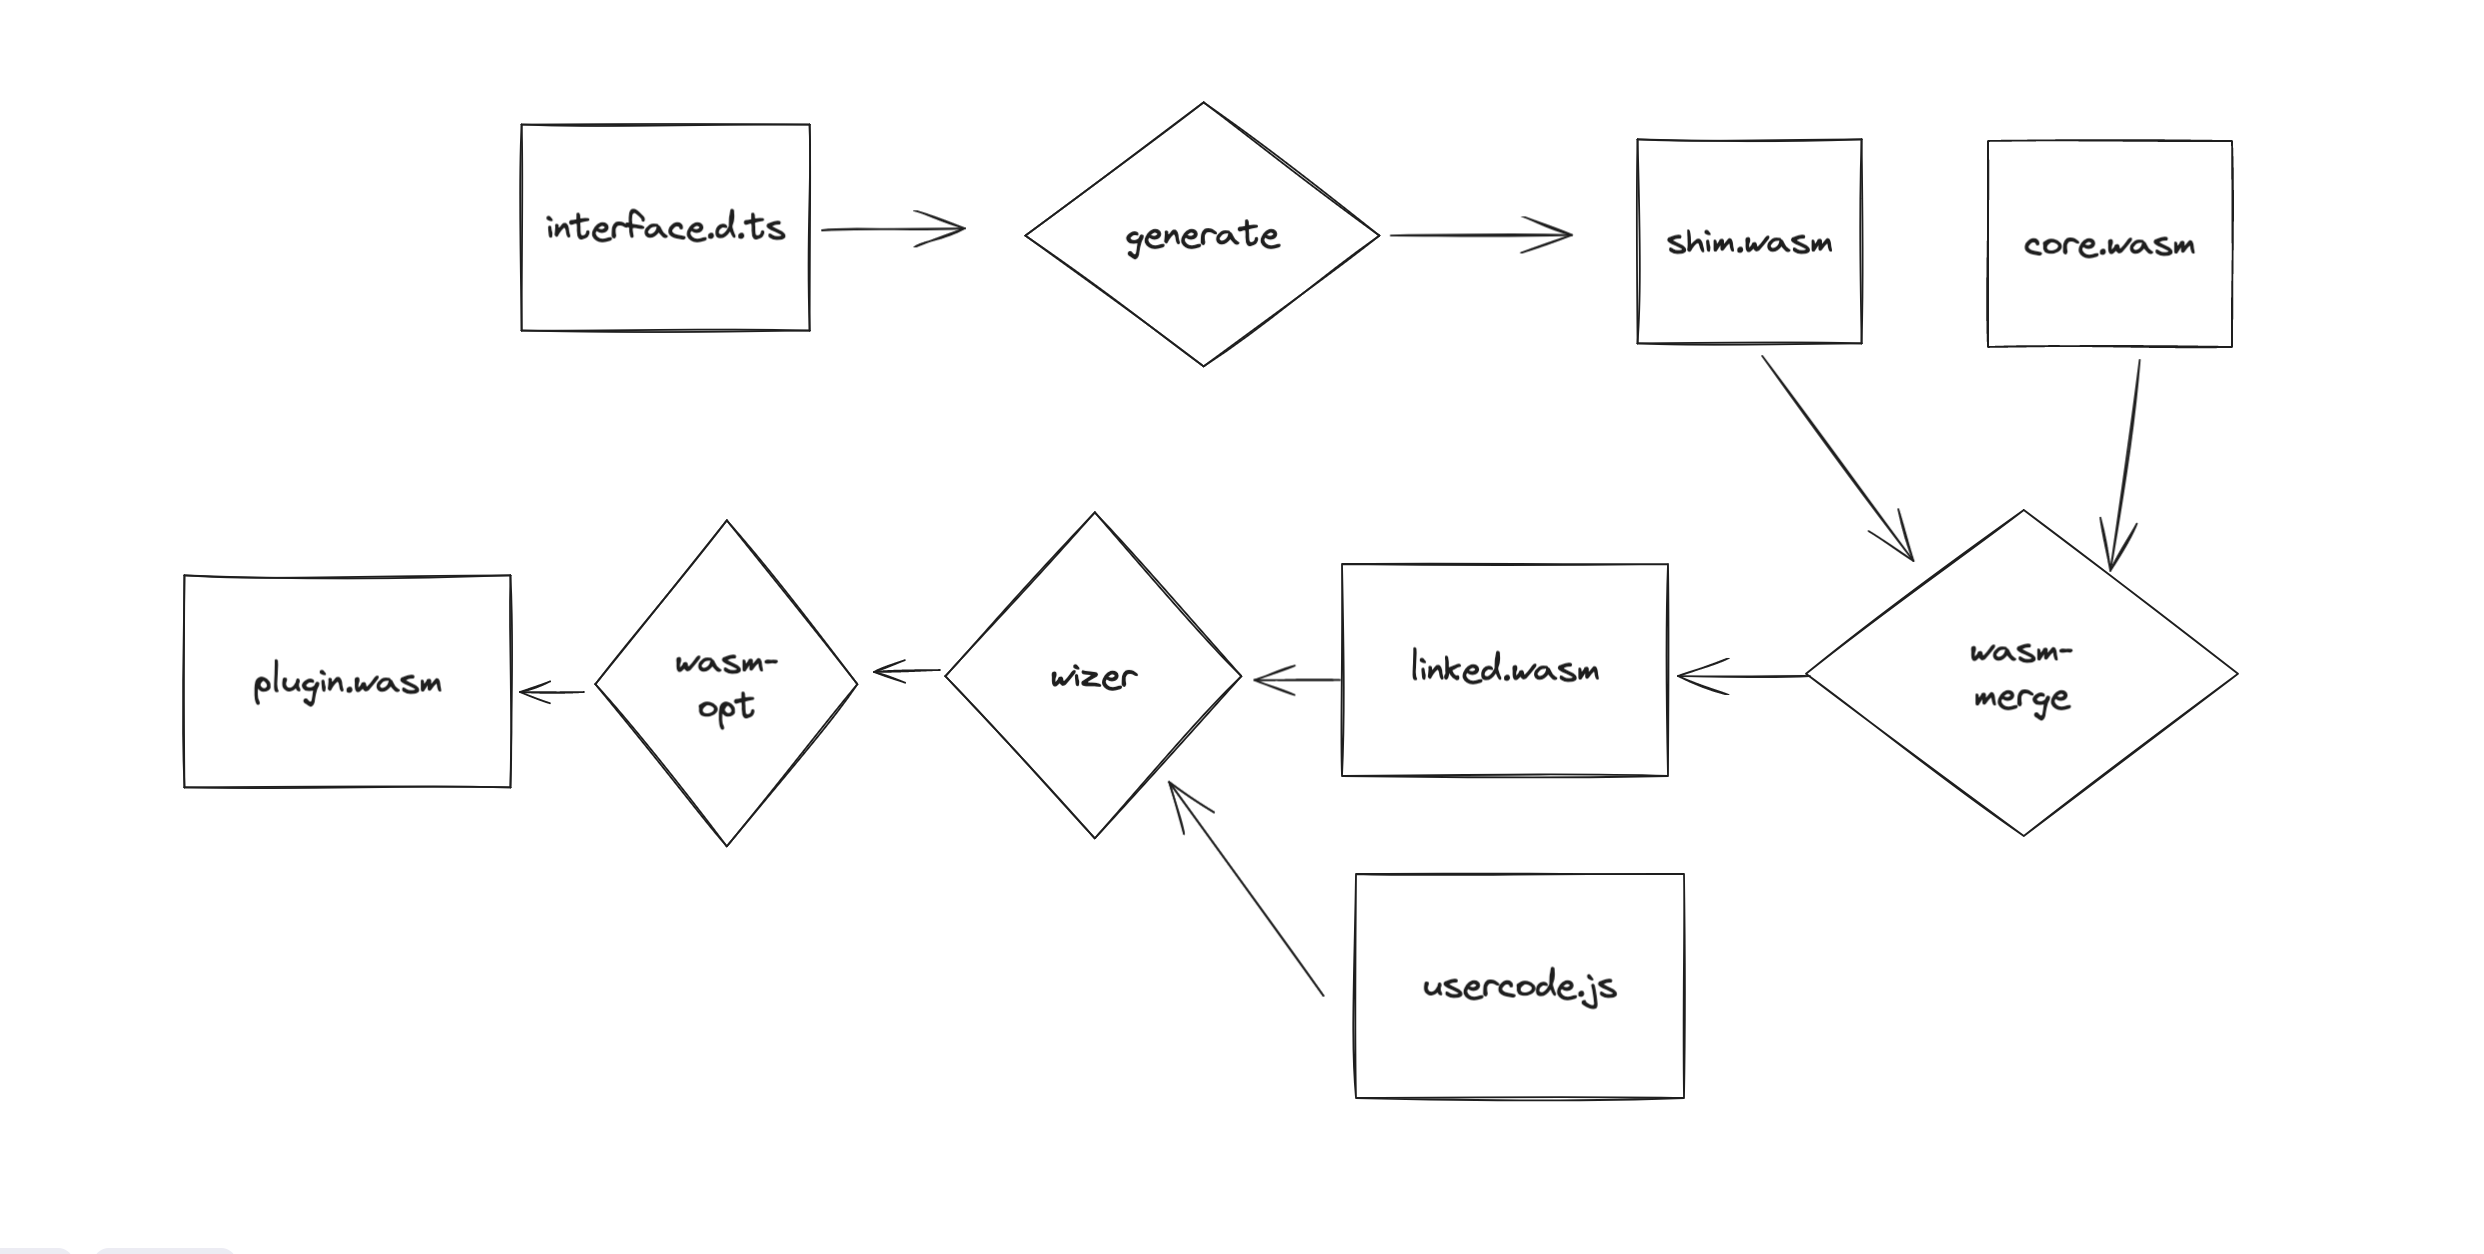
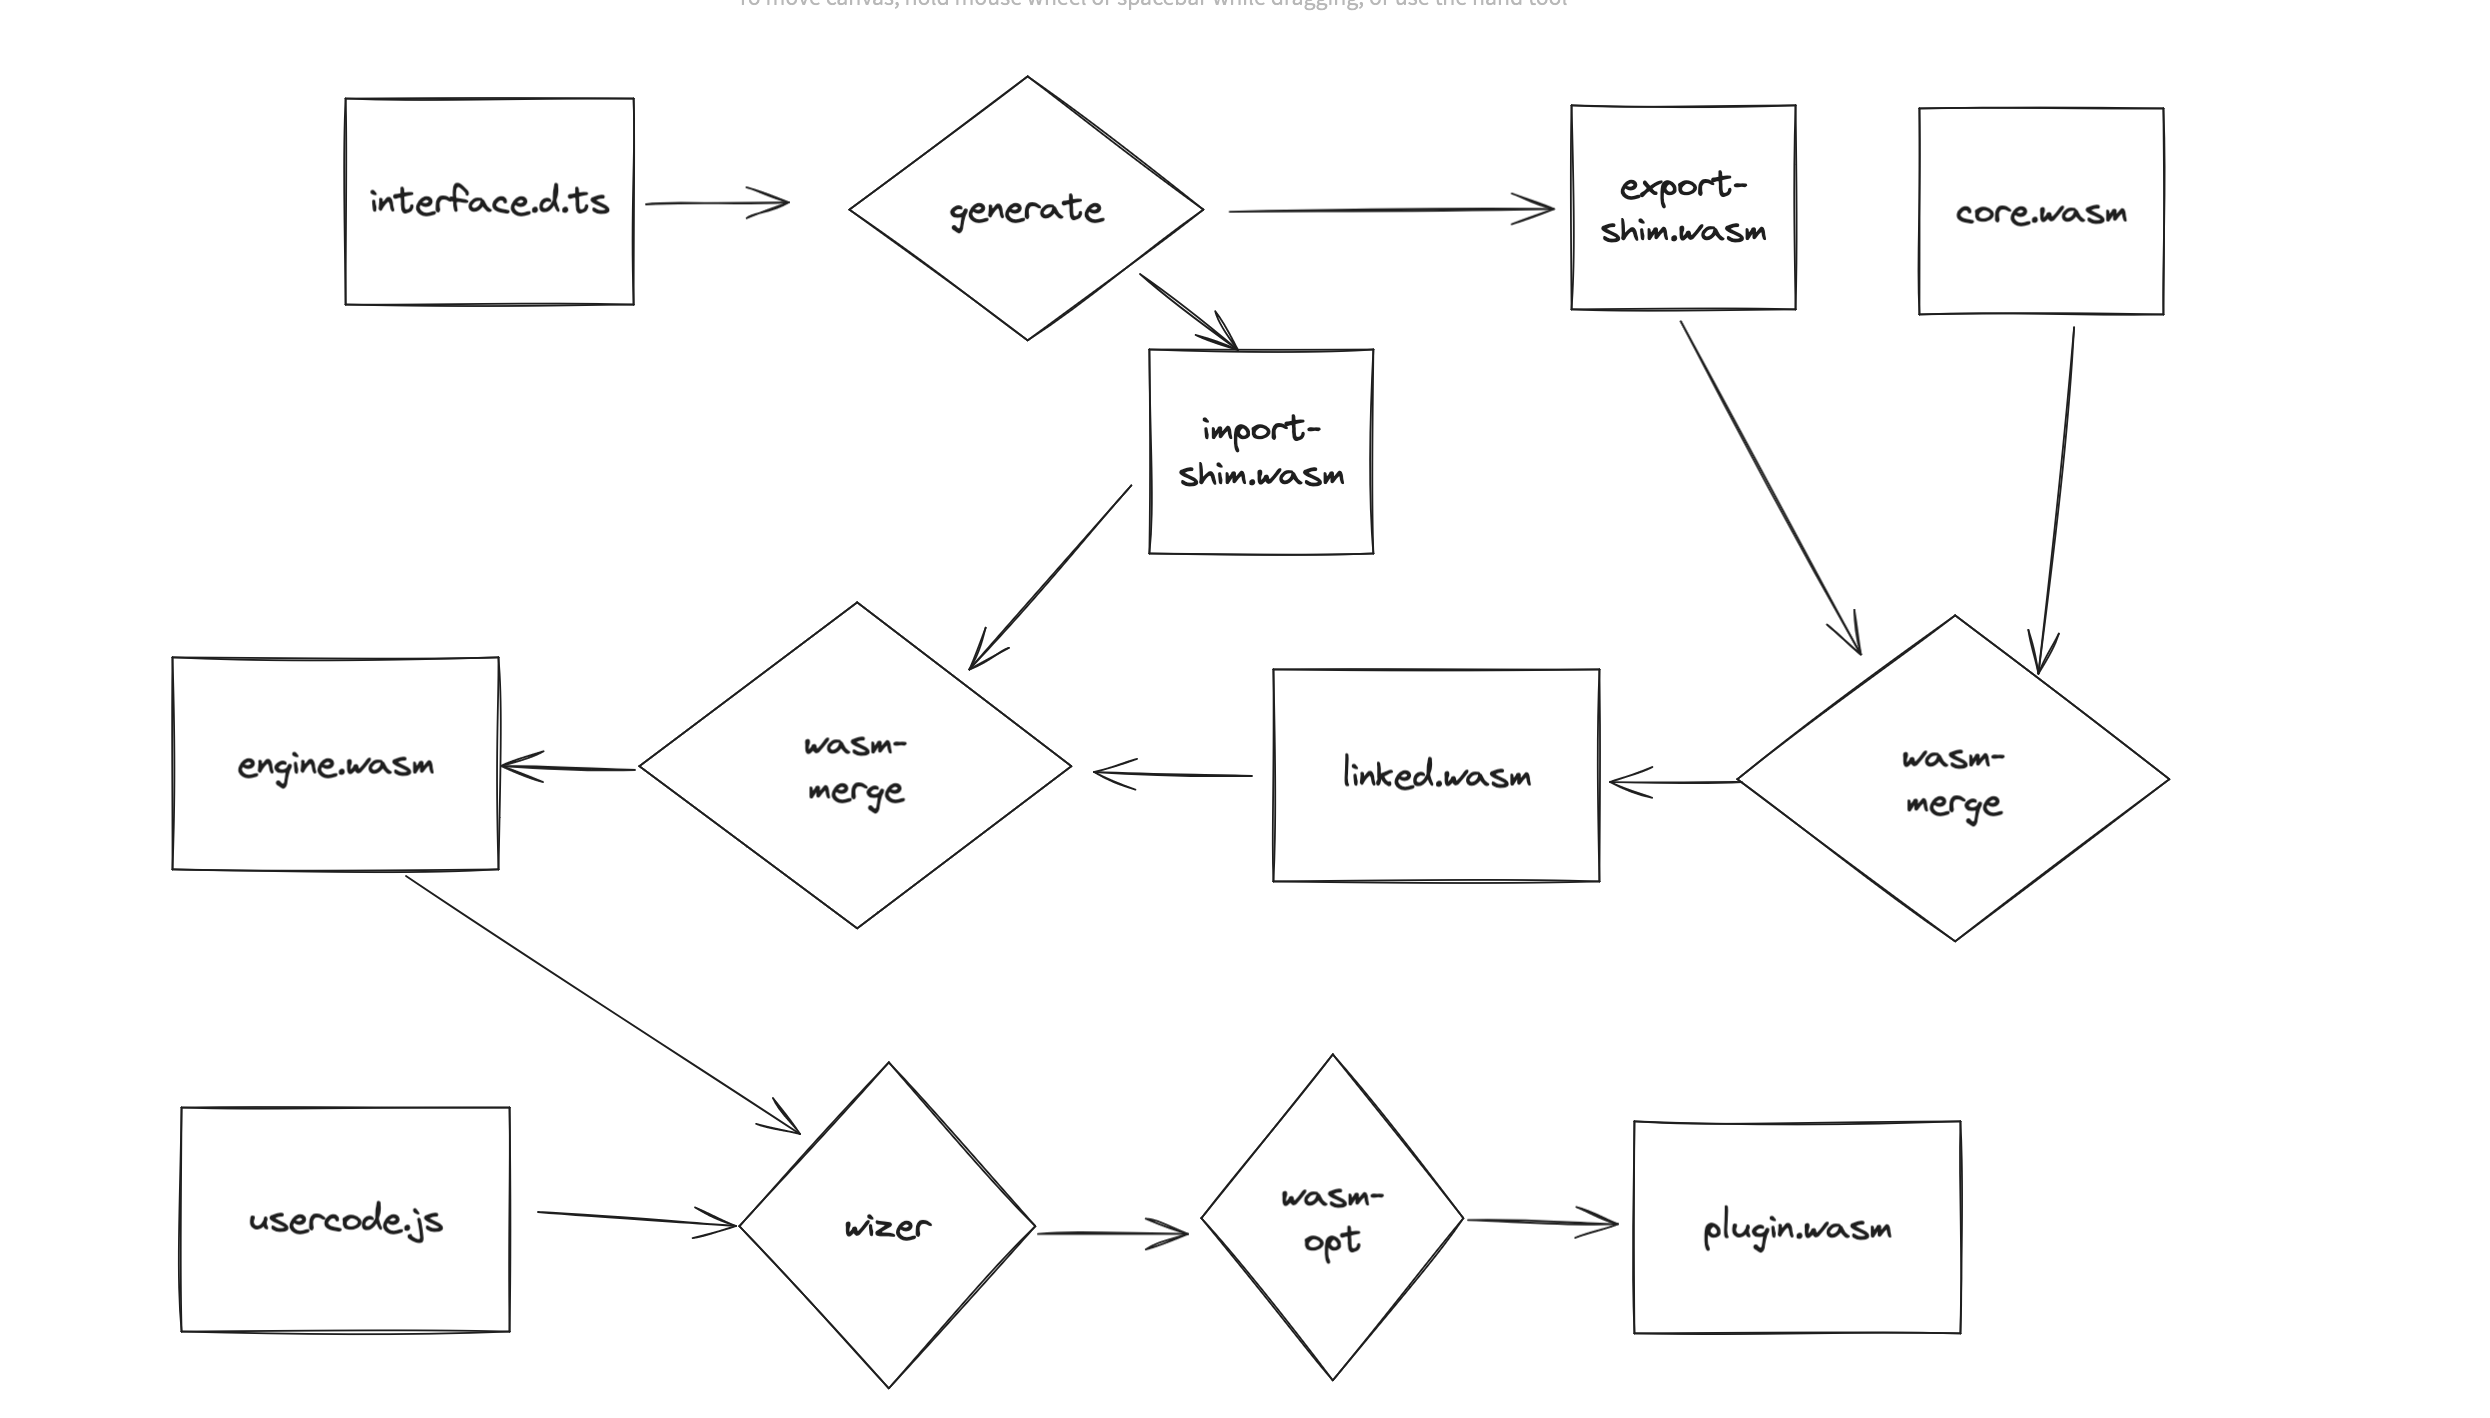
handle imports

diff --git a/EIP-009-js-pdk-interface-definition.md b/EIP-009-js-pdk-interface-definition.md
@@ -52,39 +52,37 @@ interface Imports {
 }
 ```
 
-Step 1 of the CLI will be to generate a `shim.wasm` from this interface. The shim needs
-to generate some thunk functions as well as import `__invoke` from the core module (which gets
+Step 1 of the CLI will be to generate 2 shim modules `export-shim.wasm` and `import-shim.wasm` from this interface.
+The export shim needs to generate some thunk functions as well as import `__invoke` from the core module (which gets
 linked later in the pipeline). I spiked a working [prototype of this here](https://gist.github.com/bhelx/41fba8959fe7738a23cd750983341216).
 
-`shim.wasm` will be linked with `core.wasm` using [wasm-merge](https://github.com/WebAssembly/binaryen#wasm-merge)
+`export-shim.wasm` will be linked with `core.wasm` using [wasm-merge](https://github.com/WebAssembly/binaryen#wasm-merge)
 which is kind of like a linker but a little bit higher level. I may also consider using `wasm-ld`
 but this seems to work for me and is flexible.
 
-Out of the merge comes the final module, but it's yet to be wizened. This is similar to the process
+We then wasm-merge the import shim which gives us a unified interface for indirectly calling import functions.
+
+Out of thhis merge comes the final module, but it's yet to be wizened. This is similar to the process
 wer have now. We will run the module and eval the user's plugin js code in the egine. Then we freeze
 and dump out to the final wasm after a few passes from wasm-opt.
-
-TODO: add info on how imports and exports are wired up
 
 ### Rust to JS Bridge
 
 Suppose we have 2 host functions and one export. The shim module that is generated
 should look something like this (TODO this is still not accurate yet):
 
+export-shim.wasm:
+
 ```wat
 (module
   ; included by us for invoking the js runtime
   (import "coremod" "__invoke" (func (;0;) (type 0)))
 
-  ; 2 Extism Host Functions
-  (import "coremod" "myHostFunc1" (func (;1;) (type 0)))
-  (import "coremod" "myHostFunc2" (func (;2;) (type 0)))
-
   ; the generated thunk for the export
-  (func (;3;) (type 0) (param i32) (result i32)
+  (func (;1;) (type 0) (param i32) (result i32)
     local.get 0
     call 0)
-  (export "myExport" (func 3)))
+  (export "myExport" (func 1)))
 ```
 
 For exports, we can leave the behavior the same. For each export we will generate
@@ -94,10 +92,32 @@ For imports we have a bit of a challenge. The JS code, which is executed in the 
 module, needs to be able to invoke these host functions.
 
 The JS code (and underlying rust and c code) doesn't know about these functions, their names or their function
-indexes at compile time.
+indexes at compile time. That's why the import shim will expose a call-indirect to the host functions.
 
-TODO: investigate how to solve. call_indirect? another merge?
+TODO: this means all types need to be the same, perhaps we need to also expose the type parameter?
 
+import-shim.wasm:
+
+```wat
+(module
+  (type $int2int (func (param i32) (result i32)))
+
+  (import "coremode" "myHostFunc1" (func $myHostFunc1 (type $int2int)))
+  (import "coremode" "myHostFunc2" (func $myHostFunc2 (type $int2int)))
+
+  (table 2 funcref)
+  (elem (i32.const 0) $myHostFunc1 $myHostFunc2)
+
+  (func $callHostFunc (type $int2int)
+    local.get 0
+    (call_indirect (type $int2int) (i32.const 0))
+  )
+  (export "__invokeHostFunc" (func $callHostFunc))
+)
+```
+
+It exposes this indirect call with __invokeHostFunc which can be used by the
+core quickjs engine module and invoked from javascript.
 
 ## Considerations
 
